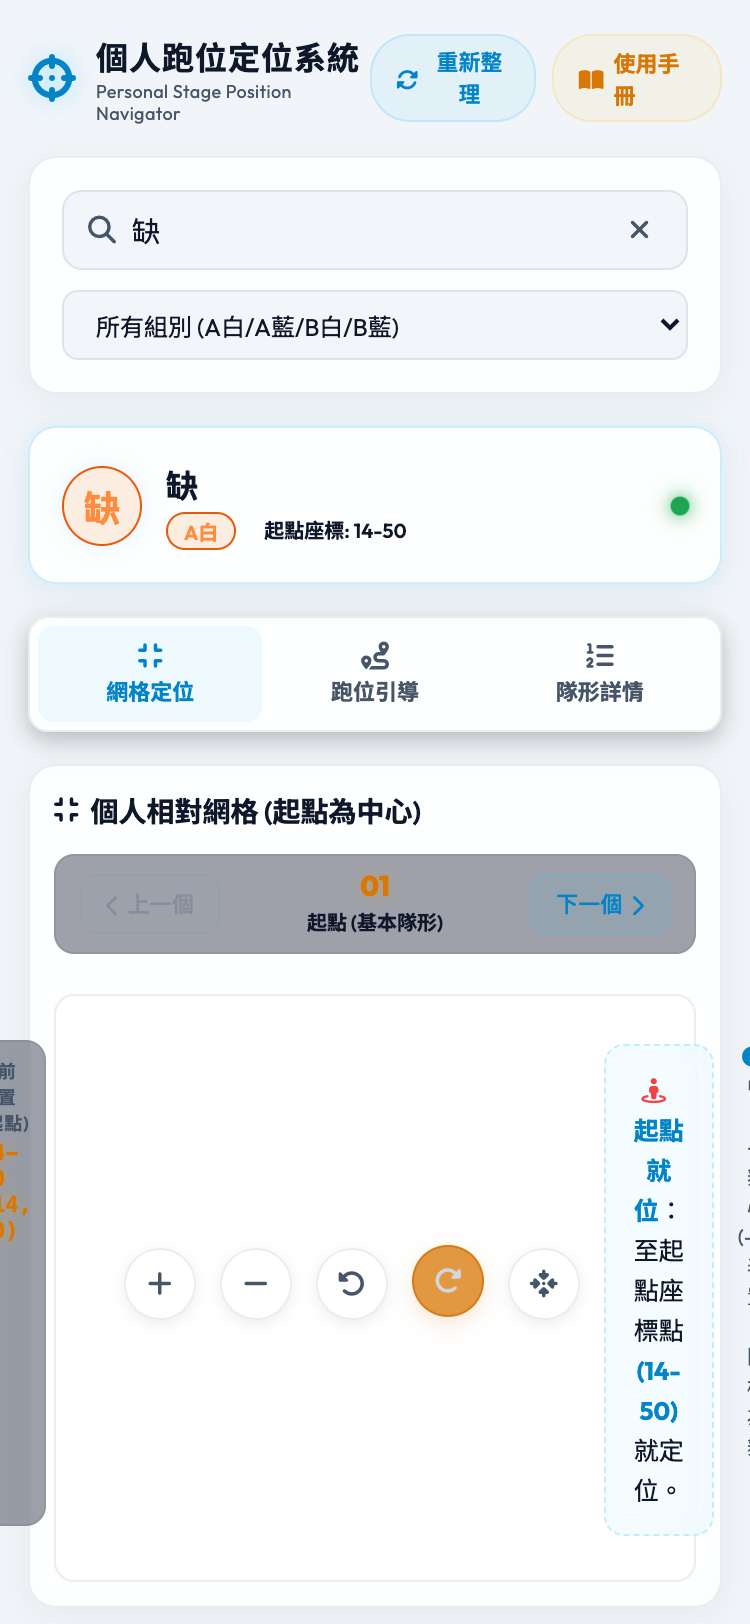
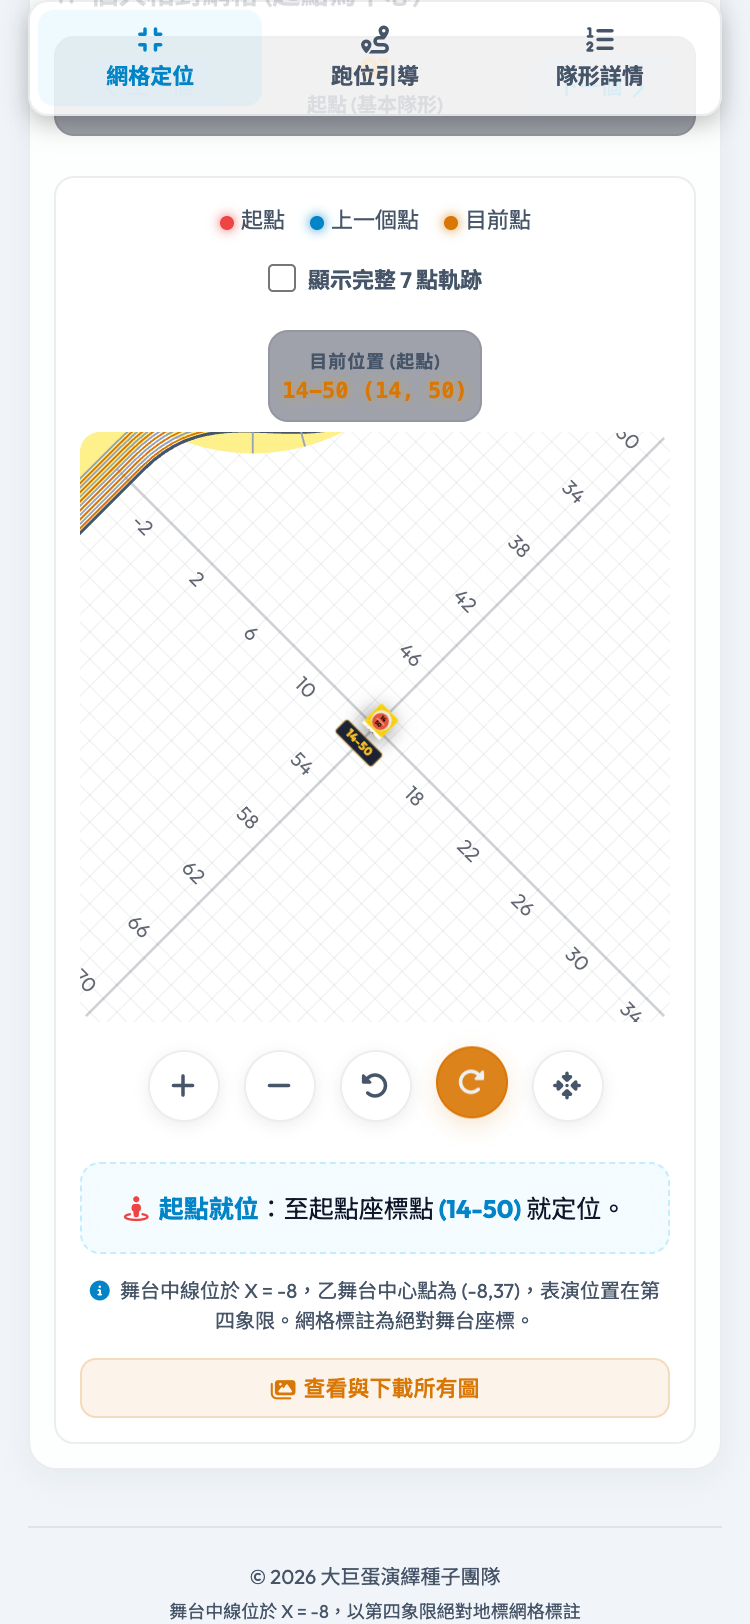
fix: restore HTML tag structure for stage legend and layout alignment

diff --git a/index.html b/index.html
@@ -124,7 +124,11 @@
                 <div class="map-display-area">
                   <div class="stage-legend">
                     <span><span class="dot-legend center-home"></span>起點</span>
-                      <div class="trajectory-toggle-container">
+                    <span><span class="dot-legend prev-pos"></span>上一個點</span>
+                    <span><span class="dot-legend current-pos"></span>目前點</span>
+                  </div>
+                  
+                  <div class="trajectory-toggle-container">
                     <input type="checkbox" id="showFullTrajectory" autocomplete="off">
                     <label for="showFullTrajectory">顯示完整 7 點軌跡</label>
                   </div>